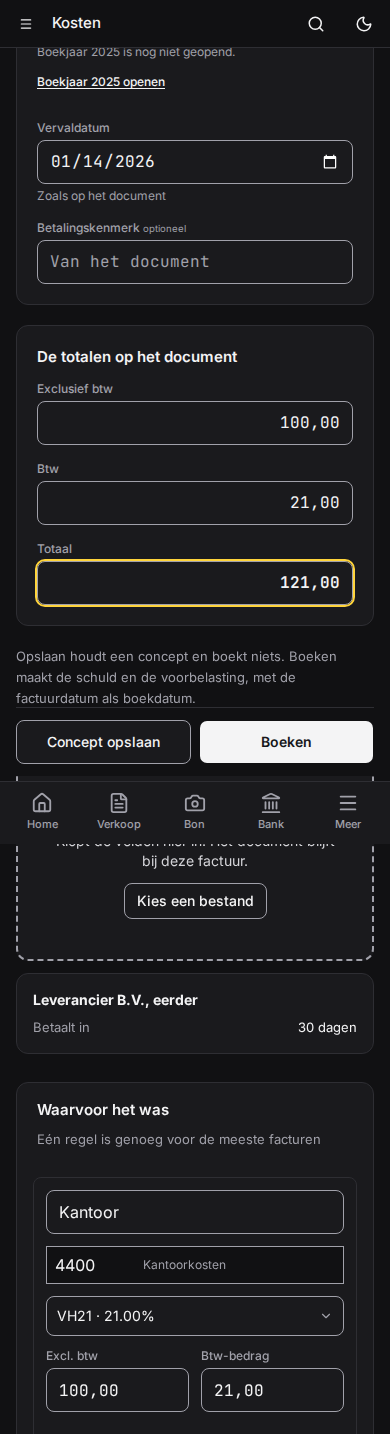
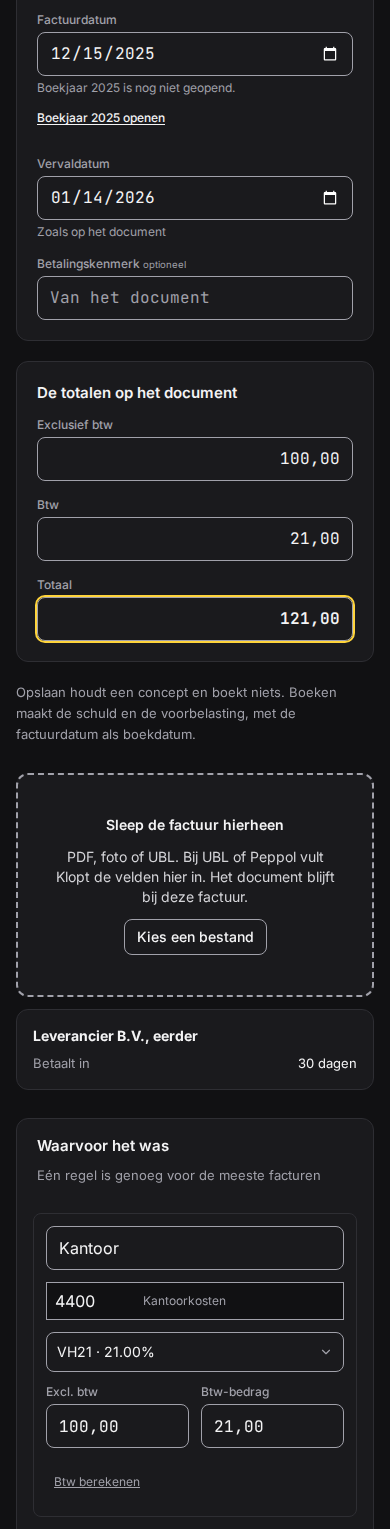
fix(web): purchase-vat-hidden 390 clip in tall viewport
Use a 390×2400 viewport, scroll to top, and clip from the

Factuurdatum label through line 1 so sticky chrome stays outside

the PNG. Part of #200.

diff --git a/apps/web/e2e/pr-screenshots-200.spec.ts b/apps/web/e2e/pr-screenshots-200.spec.ts
@@ -203,6 +203,8 @@ async function shoot(page: Page, name: string, scrollTarget?: Locator): Promise<
   await page.evaluate(() => window.scrollTo(0, 0))
 }
 
+const PURCHASE_VAT_HIDDEN_MOBILE_VIEWPORT_HEIGHT = 2400
+
 async function shootPurchaseVatHidden(page: Page): Promise<void> {
   const hint = page.locator('#purchase-invoice-date-hint')
   const line = page.getByTestId('billnew-line-1')
@@ -213,45 +215,66 @@ async function shootPurchaseVatHidden(page: Page): Promise<void> {
   for (const theme of ['light', 'dark'] as const) {
     await setTheme(page, theme)
     for (const size of SIZES) {
+      if (size.width === 390) {
+        await page.setViewportSize({
+          width: 390,
+          height: PURCHASE_VAT_HIDDEN_MOBILE_VIEWPORT_HEIGHT,
+        })
+        await expect(page.locator('body')).toBeVisible()
+        await page.evaluate(() => window.scrollTo(0, 0))
+        await expect.poll(() => page.evaluate(() => window.scrollY)).toBe(0)
+        const clip = await page.evaluate((pad) => {
+          const dateInput = document.querySelector('input[aria-label="Factuurdatum"]')
+          const lineEl = document.querySelector('[data-testid="billnew-line-1"]')
+          if (!(dateInput instanceof HTMLElement) || !(lineEl instanceof HTMLElement)) {
+            throw new Error('purchase-vat-hidden mobile clip targets missing')
+          }
+          const label = dateInput.closest('label')
+          const labelEl =
+            label?.querySelector('span.text-ink-muted') instanceof HTMLElement
+              ? label.querySelector('span.text-ink-muted')
+              : dateInput
+          if (!(labelEl instanceof HTMLElement)) {
+            throw new Error('purchase-vat-hidden Factuurdatum label missing')
+          }
+          const vatTrigger = lineEl.querySelector('button[role="combobox"]')
+          const clipTop = Math.max(0, labelEl.getBoundingClientRect().top - pad)
+          const lineBottom = lineEl.getBoundingClientRect().bottom
+          const vatBottom =
+            vatTrigger instanceof HTMLElement ? vatTrigger.getBoundingClientRect().bottom : lineBottom
+          const clipBottom = Math.max(lineBottom, vatBottom) + pad
+          return {
+            x: 0,
+            y: clipTop,
+            width: window.innerWidth,
+            height: Math.max(1, clipBottom - clipTop),
+          }
+        }, 12)
+        const png = await page.screenshot({ animations: 'disabled', clip })
+        writeFileSync(
+          join(OUT, `purchase-vat-hidden-${theme}-${size.label}.png`),
+          withPngSourceChunk(png, SCREENSHOT_SOURCE),
+        )
+        continue
+      }
+
       await page.setViewportSize({ width: size.width, height: size.height })
       await expect(page.locator('body')).toBeVisible()
-      const inset = size.width === 390 ? await mobileTabBarInset(page) : 0
-      if (size.width !== 390) {
-        await line.scrollIntoViewIfNeeded()
-      }
+      await line.scrollIntoViewIfNeeded()
       const clipSpec = await page.evaluate(
-        ({ inset, pad }) => {
+        ({ pad }) => {
           const hintEl = document.querySelector('#purchase-invoice-date-hint')
           const lineEl = document.querySelector('[data-testid="billnew-line-1"]')
-          const dateEl = document.querySelector('input[aria-label="Factuurdatum"]')
-          if (
-            !(hintEl instanceof HTMLElement) ||
-            !(lineEl instanceof HTMLElement) ||
-            !(dateEl instanceof HTMLElement)
-          ) {
+          if (!(hintEl instanceof HTMLElement) || !(lineEl instanceof HTMLElement)) {
             throw new Error('purchase-vat-hidden clip targets missing')
           }
           const docTop = (element: HTMLElement): number =>
             element.getBoundingClientRect().top + window.scrollY
           const docBottom = (element: HTMLElement): number => docTop(element) + element.offsetHeight
           const hintTop = docTop(hintEl) - pad
-          const dateTop = docTop(dateEl) - pad
           const lineBottom = docBottom(lineEl) + pad
-          const view = window.innerHeight - inset
+          const view = window.innerHeight
           const limit = view
-          if (window.innerWidth <= 390) {
-            const clipTop = Math.min(dateTop, hintTop)
-            window.scrollTo(0, Math.max(0, clipTop))
-            return {
-              fullPage: true,
-              clip: {
-                x: 0,
-                y: Math.max(0, clipTop),
-                width: window.innerWidth,
-                height: Math.max(1, lineBottom - Math.max(0, clipTop)),
-              },
-            }
-          }
           const fitBottom = Math.max(0, lineBottom - view)
           let scrollY = hintTop >= fitBottom ? fitBottom : hintTop
           window.scrollTo(0, scrollY)
@@ -293,7 +316,7 @@ async function shootPurchaseVatHidden(page: Page): Promise<void> {
             },
           }
         },
-        { inset, pad: 12 },
+        { pad: 12 },
       )
       const png = await page.screenshot({
         animations: 'disabled',
